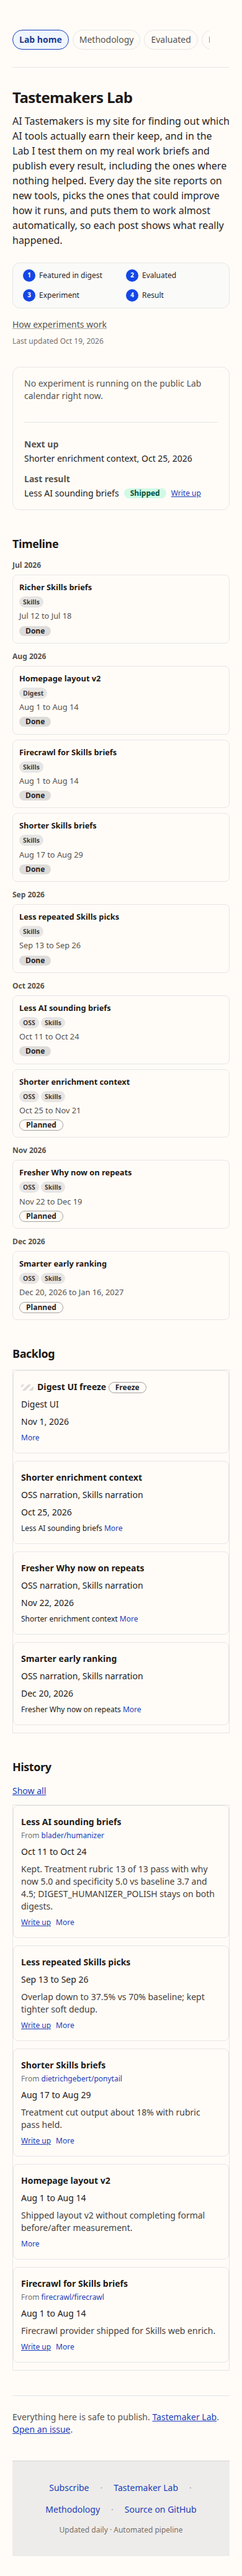
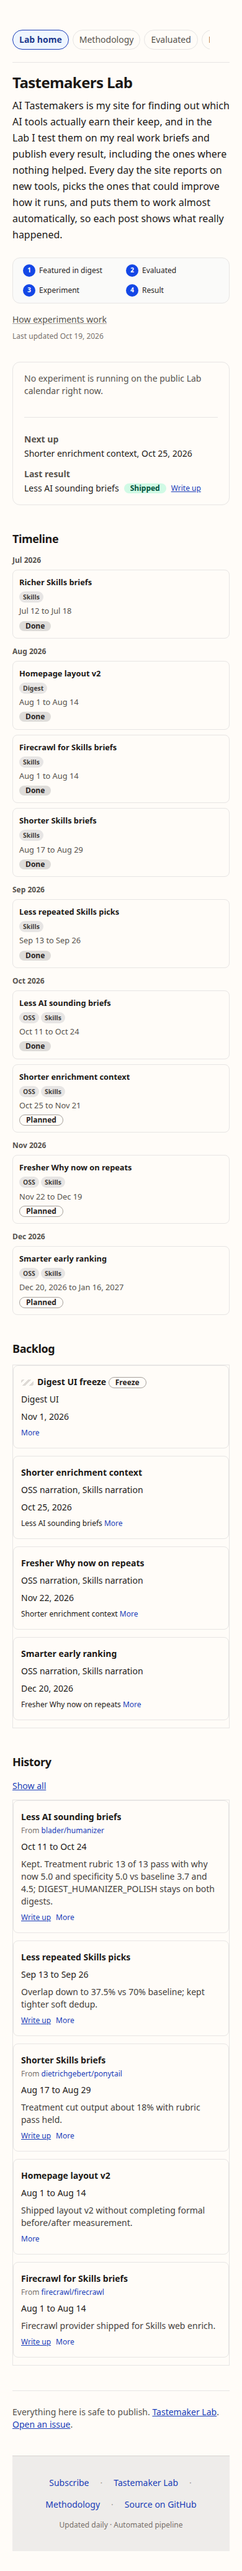
Lab home: enforce single hero and add verify gate
Harden lab index layout with dedicated lead CSS, compact lab-home header,
and verify-lab-home-hero (HTML plus 390/1280 light/dark) so duplicate
titles, taglines, and legacy intros fail CI.

diff --git a/scripts/verify-lab-home-hero.ts b/scripts/verify-lab-home-hero.ts
@@ -1,0 +1,166 @@
+/**
+ * Lab index hero: one visible title (main h1), one intro (.lab-home-lead), no legacy copy.
+ */
+import fs from "node:fs";
+import path from "node:path";
+import { fileURLToPath } from "node:url";
+import { JSDOM } from "jsdom";
+import { chromium, type Page } from "playwright";
+import { seoPage } from "./seo-copy.js";
+import {
+  LAB_HOME_HEADER_TAGLINE,
+  LAB_HOME_LEGACY_INTRO_TEXT,
+} from "./lab/lab-home-copy.js";
+
+const repoRoot = path.resolve(path.dirname(fileURLToPath(import.meta.url)), "..");
+const labIndexPath = path.join(repoRoot, "site/lab/index.html");
+
+function verifyLabIndexHtml(html: string): string[] {
+  const issues: string[] = [];
+  const dom = new JSDOM(html);
+  const doc = dom.window.document;
+
+  const h1s = doc.querySelectorAll("h1");
+  if (h1s.length !== 1) {
+    issues.push(`expected exactly 1 h1, found ${h1s.length}`);
+  } else if (h1s[0]!.classList.contains("sr-only")) {
+    issues.push("lab index h1 must be visible (not sr-only)");
+  }
+
+  if (doc.querySelector("header .site-brand")) {
+    issues.push("lab index header must not include .site-brand title block");
+  }
+
+  if (html.includes(LAB_HOME_HEADER_TAGLINE)) {
+    issues.push("lab index must not render header tagline copy");
+  }
+
+  const leads = doc.querySelectorAll("main .lab-home-lead");
+  if (leads.length !== 1) {
+    issues.push(`expected exactly 1 .lab-home-lead in main, found ${leads.length}`);
+  } else {
+    const lead = leads[0]!;
+    const expected = seoPage("lab_index").lead?.trim() ?? "";
+    const actual = lead.textContent?.replace(/\s+/g, " ").trim() ?? "";
+    if (expected && actual !== expected) {
+      issues.push("lab-home-lead text does not match site/seo-copy.json lab_index.lead");
+    }
+    const cls = lead.getAttribute("class") ?? "";
+    if (/\btext-sm\b/.test(cls)) {
+      issues.push("lab-home-lead must not use text-sm");
+    }
+    if (/\btext-stone-[56]00\b/.test(cls) || /\bdark:text-stone-[34]00\b/.test(cls)) {
+      issues.push("lab-home-lead must not use muted grey text utility classes");
+    }
+  }
+
+  const introArticle = doc.querySelector(".lab-intro article");
+  if (introArticle?.textContent?.trim()) {
+    issues.push("lab-intro article must be empty on lab index (legacy intro removed)");
+  }
+
+  const intro = doc.querySelector(".lab-intro");
+  if (intro?.querySelector("strong")) {
+    issues.push("lab-intro must not contain bold legacy Von Restorff intro");
+  }
+
+  const legacySnippet = LAB_HOME_LEGACY_INTRO_TEXT.slice(0, 48);
+  if (html.includes(legacySnippet)) {
+    issues.push("lab index still contains legacy intro copy from briefings/lab/index.md");
+  }
+
+  const cssHref = doc.querySelector('link[rel="stylesheet"]')?.getAttribute("href")?.trim() ?? "";
+  if (!cssHref.includes("style.") || !/style\.[a-f0-9]+\.css/.test(cssHref)) {
+    issues.push(`lab index stylesheet must be content-hashed (got ${cssHref || "missing"})`);
+  }
+
+  return issues;
+}
+
+async function verifyRenderedHero(page: Page, label: string): Promise<string[]> {
+  const issues: string[] = [];
+  const snapshot = await page.evaluate(() => {
+    const headerBrand = document.querySelector("header .site-brand");
+    const h1Count = document.querySelectorAll("main h1").length;
+    const leadEls = document.querySelectorAll("main .lab-home-lead");
+    const lead = leadEls[0] as HTMLElement | undefined;
+    const introArticle = document.querySelector(".lab-intro article");
+    const introStrong = document.querySelector(".lab-intro strong");
+    let leadFontSize = 0;
+    let leadColor = "";
+    let leadWeight = "";
+    if (lead) {
+      const cs = getComputedStyle(lead);
+      leadFontSize = parseFloat(cs.fontSize);
+      leadColor = cs.color;
+      leadWeight = cs.fontWeight;
+    }
+    const headerTaglineVisible = Array.from(document.querySelectorAll("header p")).some((p) =>
+      /Public notes on how repos get picked/.test(p.textContent ?? ""),
+    );
+    return {
+      headerBrand: Boolean(headerBrand),
+      h1Count,
+      leadCount: leadEls.length,
+      introArticleLen: introArticle?.textContent?.trim().length ?? 0,
+      introStrong: Boolean(introStrong),
+      leadFontSize,
+      leadColor,
+      leadWeight,
+      headerTaglineVisible,
+    };
+  });
+
+  if (snapshot.headerBrand) issues.push(`${label}: header .site-brand visible`);
+  if (snapshot.h1Count !== 1) issues.push(`${label}: expected 1 main h1, found ${snapshot.h1Count}`);
+  if (snapshot.leadCount !== 1) issues.push(`${label}: expected 1 lab-home-lead, found ${snapshot.leadCount}`);
+  if (snapshot.introArticleLen > 0) issues.push(`${label}: legacy intro article has visible text`);
+  if (snapshot.introStrong) issues.push(`${label}: bold text in .lab-intro`);
+  if (snapshot.headerTaglineVisible) issues.push(`${label}: header tagline paragraph visible`);
+  if (snapshot.leadFontSize > 0 && snapshot.leadFontSize < 15.5) {
+    issues.push(`${label}: lab-home-lead computed font-size ${snapshot.leadFontSize}px (want >= 16px)`);
+  }
+  if (snapshot.leadWeight === "700" || snapshot.leadWeight === "bold") {
+    issues.push(`${label}: lab-home-lead must not be bold`);
+  }
+
+  return issues;
+}
+
+async function main(): Promise<void> {
+  if (!fs.existsSync(labIndexPath)) {
+    console.error("missing site/lab/index.html (run npm run build:pages first)");
+    process.exit(1);
+  }
+  const html = fs.readFileSync(labIndexPath, "utf8");
+  const staticIssues = verifyLabIndexHtml(html);
+  let issues = [...staticIssues];
+
+  const browser = await chromium.launch();
+  const fileUrl = `file://${labIndexPath}`;
+  for (const width of [390, 1280]) {
+    for (const dark of [false, true]) {
+      const page = await browser.newPage({ viewport: { width, height: 900 } });
+      await page.goto(fileUrl, { waitUntil: "networkidle" });
+      await page.evaluate((isDark) => {
+        document.documentElement.classList.toggle("dark", isDark);
+      }, dark);
+      const mode = `${width}px ${dark ? "dark" : "light"}`;
+      issues = issues.concat(await verifyRenderedHero(page, mode));
+      await page.close();
+    }
+  }
+  await browser.close();
+
+  if (issues.length > 0) {
+    console.error("verify: lab home hero failed:");
+    for (const issue of issues) console.error(`  ${issue}`);
+    process.exit(1);
+  }
+  console.log("verify: lab home hero ok (one title, one intro, no legacy copy; 390/1280 light/dark)");
+}
+
+main().catch((err) => {
+  console.error(err);
+  process.exit(1);
+});

diff --git a/scripts/edition-pages.ts b/scripts/edition-pages.ts
@@ -22,6 +22,7 @@ import {
   sanitizeLabVisibleHtml,
 } from "./lab/lab-format.js";
 import { LAB_FOOTER_ABOUT_LABEL, labPublishFooterHtml } from "./lab/lab-dashboard-copy.js";
+import { LAB_HOME_HEADER_TAGLINE } from "./lab/lab-home-copy.js";
 import {
   applyLabIntroVonRestorff,
   renderLabLoopAboutBlockHtml,
@@ -989,7 +990,8 @@ export function pageShell(
     processedBody = rewriteOutboundLinksInHtml(processedBody, options.outboundRewrite);
   }
   const labBody = labLayout ? ensureLabLinkSections(processedBody, labFallback) : processedBody;
-  const h1Bottom = options?.documentH1Lead ? "mb-2.5" : "mb-6";
+  const labHomePage = options?.labHomePage === true;
+  const h1Bottom = options?.documentH1Lead ? "mb-2" : "mb-6";
   const h1Class = options?.documentH1Visible
     ? `font-sans text-2xl font-bold tracking-tight ${h1Bottom}`
     : "sr-only";
@@ -997,9 +999,12 @@ export function pageShell(
     ? `<h1 class="${h1Class}">${escapeHtml(options.documentH1)}</h1>`
     : "";
   const documentH1Lead = options?.documentH1Lead
-    ? `<p class="lab-home-lead mb-6 font-sans text-base font-normal text-stone-800 dark:text-stone-200">${escapeHtml(options.documentH1Lead)}</p>`
+    ? `<p class="lab-home-lead">${escapeHtml(options.documentH1Lead)}</p>`
     : "";
-  const hideLabHomeSiteBrand = options?.labHomePage === true;
+  const hideLabHomeSiteBrand = labHomePage;
+  const headerClass = labHomePage
+    ? "lab-home-header mb-4 border-b border-stone-200 pb-4 dark:border-stone-700"
+    : "mb-8 border-b border-stone-200 pb-6 dark:border-stone-700";
   const mainHtml = labLayout
     ? `<main class="lab-main">${documentH1}${documentH1Lead}${labBody}</main>`
     : `${documentH1}${documentH1Lead}${labBody}`;
@@ -1031,7 +1036,7 @@ export function pageShell(
 </head>
 <body class="min-h-screen bg-stone-100 text-stone-900 dark:bg-stone-950 dark:text-stone-200 bg-[radial-gradient(ellipse_80%_50%_at_50%_-20%,rgba(30,64,175,0.08),transparent)] dark:bg-[radial-gradient(ellipse_80%_50%_at_50%_-20%,rgba(37,99,235,0.12),transparent)]">
   <div class="${shellClass}">
-    <header class="mb-8 border-b border-stone-200 pb-6 dark:border-stone-700">
+    <header class="${headerClass}">
       ${
         hideLabHomeSiteBrand
           ? ""
@@ -2470,8 +2475,7 @@ export async function buildLabSite(
   const paths = labSitePaths();
   const brand = {
     name: "Tastemakers Lab",
-    tagline:
-      "Public notes on how repos get picked, how pipeline changes get tested, and what readers actually engage with.",
+    tagline: LAB_HOME_HEADER_TAGLINE,
   };
 
   const labShell = { labLayout: true as const, labFallbackSection: "about" as LabLinkSection };

diff --git a/src/tastemaker/lab/lab-methodology.test.ts b/src/tastemaker/lab/lab-methodology.test.ts
@@ -81,8 +81,8 @@ describe("Lab methodology layout (round 7 revised)", () => {
     );
     expect(html).toContain("<h1");
     expect(html.indexOf("</h1>")).toBeLessThan(html.indexOf("earn their keep"));
-    expect(html).toContain("lab-home-lead");
-    expect(html).toContain("text-base");
+    expect(html).toContain('class="lab-home-lead"');
+    expect(html).not.toMatch(/lab-home-lead[^"]*text-sm/);
     expect(html).not.toContain("Public notes subtitle fixture");
     expect(html).not.toMatch(/site-brand[\s\S]*Tastemakers Lab/);
     expect(html).toContain('property="og:title" content="Tastemakers Lab: Real AI Tool Tests, Including the Misses"');

diff --git a/scripts/lab/lab-home-copy.ts b/scripts/lab/lab-home-copy.ts
@@ -1,3 +1,7 @@
 /** Legacy lab home intro from `briefings/lab/index.md` (replaced on index by `lab_index.lead`; kept for tests). */
 export const LAB_HOME_LEGACY_INTRO_TEXT =
   "Tastemakers reports on tools every day, evaluates them, and picks ones that could improve its own pipeline. It experiments with those choices almost automatically and publishes what happened.";
+
+/** Visible on non-index Lab pages via `buildLabSite` brand.tagline; must not appear on lab index. */
+export const LAB_HOME_HEADER_TAGLINE =
+  "Public notes on how repos get picked, how pipeline changes get tested, and what readers actually engage with.";

diff --git a/site/assets/input.css b/site/assets/input.css
@@ -266,6 +266,14 @@
     @apply ml-2 inline-flex items-center rounded-full border border-emerald-200 bg-emerald-50 px-2 py-0.5 font-sans text-[10px] font-bold uppercase tracking-wider text-emerald-800 align-middle dark:border-emerald-700/60 dark:bg-emerald-950/60 dark:text-emerald-300;
   }
 
+  .lab-main > h1:first-child {
+    @apply mt-0;
+  }
+
+  .lab-main > .lab-home-lead {
+    @apply mb-6 mt-0 max-w-[42rem] font-sans text-base font-normal leading-relaxed text-stone-900 dark:text-stone-100;
+  }
+
   .lab-main .prose :is(h1, h2, h3):first-child {
     @apply mt-0;
   }
